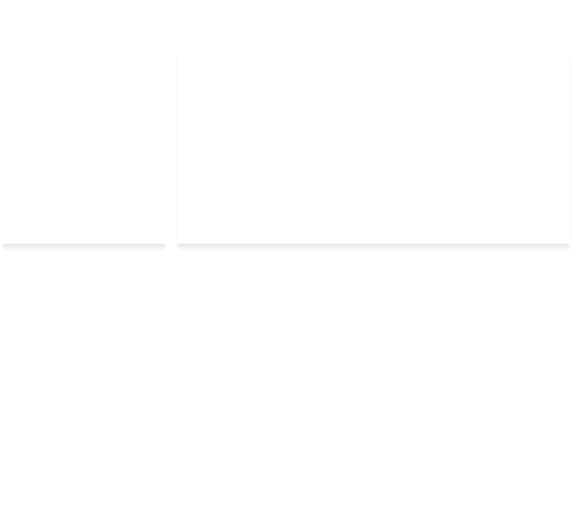
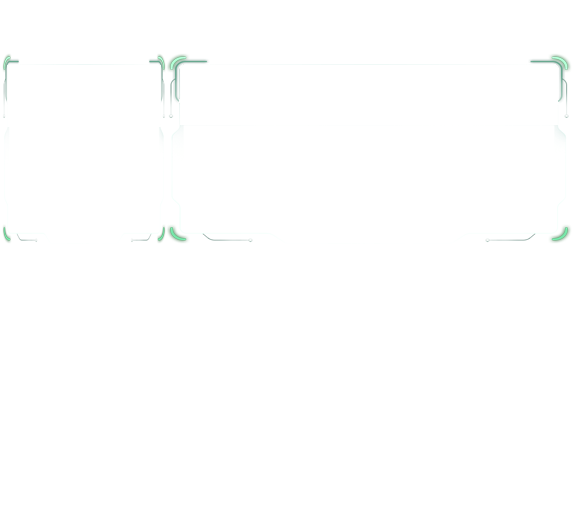
修改界面

diff --git a/src/nbaquery/presentation2/main/MainFrame.java b/src/nbaquery/presentation2/main/MainFrame.java
@@ -35,7 +35,7 @@ public class MainFrame {
 	
 	static CardLocation location = null;
 	
-	static Button button1, button2, button3, button4;
+	static Button button1, button2, button3, button4, button5;
 	static Button exit, mini, show;
 
 
@@ -43,6 +43,7 @@ public class MainFrame {
 	static MouseListener listener2 = null;
 	static MouseListener listener3 = null;
 	static MouseListener listener4 = null;
+	static MouseListener listener5 = null;
 	
 	int xOld,yOld;
 	
@@ -59,7 +60,7 @@ public class MainFrame {
 	
 	public void initialize(){
 		
-		background_img = new ImageIcon("Img2/main_frame_green.png");
+		background_img = new ImageIcon("Img2/main_frame.png");
 		int background_width = background_img.getIconWidth();
 		int background_height = background_img.getIconHeight();
 
@@ -82,14 +83,14 @@ public class MainFrame {
 		background_label.setBounds(0, 0, background_width, background_height); 
 		
 		button_left_panel = new JPanel();
-		button_left_panel.setBounds(0, 0, 104, background_height);
+		button_left_panel.setBounds(0, 0, 115, background_height);
 		button_left_panel.setLayout(null);
 		button_left_panel.setVisible(true);
 		button_left_panel.setOpaque(false);
 		frame.add(button_left_panel);
 
 		button_right_panel = new JPanel();
-		button_right_panel.setBounds(714, 0, 25, background_height);
+		button_right_panel.setBounds(714, 0, 180, 90);
 		button_right_panel.setLayout(null);
 		button_right_panel.setVisible(true);
 		button_right_panel.setOpaque(false);
@@ -123,26 +124,28 @@ public class MainFrame {
 	}
 	
 	private static void initialize_buttons(){
-		button1 = new Button("Img2/blank_big.png", "Img2/button1.png", button_left_panel);
-		button2 = new Button("Img2/blank_big.png", "Img2/button2.png", button_left_panel);
-		button3 = new Button("Img2/blank_big.png", "Img2/button3.png", button_left_panel);
-		button4 = new Button("Img2/blank_big.png", "Img2/button4.png", button_left_panel);
-		button1.setBounds(10, 144, 94, 87);
-		button2.setBounds(10, 231, 94, 87);
-		button3.setBounds(10, 318, 94, 87);
-		button4.setBounds(10, 405, 94, 87);
+		button1 = new Button("Img2/blank_big.png", "Img2/button_chosen.png", button_left_panel);
+		button2 = new Button("Img2/blank_big.png", "Img2/button_chosen.png", button_left_panel);
+		button3 = new Button("Img2/blank_big.png", "Img2/button_chosen.png", button_left_panel);
+		button4 = new Button("Img2/blank_big.png", "Img2/button_chosen.png", button_left_panel);
+		button5 = new Button("Img2/blank_big.png", "Img2/button_chosen.png", button_left_panel);
+		button1.setBounds(35, 105, 82, 82);
+		button2.setBounds(35, 192, 82, 82);
+		button3.setBounds(35, 279, 82, 82);
+		button4.setBounds(35, 366, 82, 82);
+		button5.setBounds(35, 453, 82, 82);
 		
 		exit = new Button("Img2/blank_small.png", "Img2/line.png", button_right_panel);
 		mini = new Button("Img2/blank_small.png", "Img2/line.png", button_right_panel);
 		show = new Button("Img2/blank_small.png", "Img2/line.png", button_right_panel);
-		exit.setBounds(1, 34, 24, 25);
-		mini.setBounds(1, 59, 24, 25);
-		show.setBounds(1, 84, 24, 25);
-		
+		exit.setBounds(120, 34, 24, 25);
+		mini.setBounds(100, 34, 24, 25);
+		show.setBounds(10, 45, 24, 25);
+
 		button1.addMouseListener(new MouseAdapter(){
 			public void mouseClicked(MouseEvent e) {
 				init_button();
-				button1.setIcon(new ImageIcon("Img2/button1.png"));
+				button1.setIcon(new ImageIcon("Img2/button_chosen.png"));
 				
 				if(ConcisePara.type.equals(CardType.PLAYER_FLAT) || (ConcisePara.type.equals(CardType.TEAM_FLAT))){
 					ConcisePara.type = CardType.MATCH_FLAT;
@@ -150,8 +153,8 @@ public class MainFrame {
 				else if(ConcisePara.type.equals(CardType.PLAYER_RECT) || (ConcisePara.type.equals(CardType.TEAM_RECT))){
 					ConcisePara.type = CardType.MATCH_RECT;
 				}
-				ConcisePanelFactory.create_panel(ConcisePara.type, false, false);
 				ConcisePara.view_all = false;
+				ConcisePanelFactory.create_panel(ConcisePara.type, false, false);
 				
 				listener1 = button1.getMouseListeners()[1];
 				button1.removeMouseListener(button1.getMouseListeners()[1]);
@@ -161,7 +164,7 @@ public class MainFrame {
 		button2.addMouseListener(new MouseAdapter(){
 			public void mouseClicked(MouseEvent e) {
 				init_button();
-				button2.setIcon(new ImageIcon("Img2/button2.png"));
+				button2.setIcon(new ImageIcon("Img2/button_chosen.png"));
 				
 				if(ConcisePara.type.equals(CardType.PLAYER_FLAT) || (ConcisePara.type.equals(CardType.MATCH_FLAT))){
 					ConcisePara.type = CardType.TEAM_FLAT;
@@ -169,8 +172,8 @@ public class MainFrame {
 				else if(ConcisePara.type.equals(CardType.PLAYER_RECT) || (ConcisePara.type.equals(CardType.MATCH_FLAT))){
 					ConcisePara.type = CardType.TEAM_RECT;
 				}
-				ConcisePanelFactory.create_panel(ConcisePara.type, false, false);
 				ConcisePara.view_all = false;
+				ConcisePanelFactory.create_panel(ConcisePara.type, false, false);
 				
 				listener2 = button2.getMouseListeners()[1];
 				button2.removeMouseListener(button2.getMouseListeners()[1]);
@@ -180,7 +183,7 @@ public class MainFrame {
 		button3.addMouseListener(new MouseAdapter(){
 			public void mouseClicked(MouseEvent e) {	
 				init_button();
-				button3.setIcon(new ImageIcon("Img2/button3.png"));
+				button3.setIcon(new ImageIcon("Img2/button_chosen.png"));
 				
 				if(ConcisePara.type.equals(CardType.TEAM_FLAT) || (ConcisePara.type.equals(CardType.MATCH_FLAT))){
 					ConcisePara.type = CardType.PLAYER_FLAT;
@@ -188,8 +191,8 @@ public class MainFrame {
 				else if(ConcisePara.type.equals(CardType.TEAM_RECT) || (ConcisePara.type.equals(CardType.MATCH_FLAT))){
 					ConcisePara.type = CardType.PLAYER_RECT;
 				}
-				ConcisePanelFactory.create_panel(ConcisePara.type, false, false);
 				ConcisePara.view_all = false;
+				ConcisePanelFactory.create_panel(ConcisePara.type, false, false);
 				
 				
 				listener3 = button3.getMouseListeners()[1];
@@ -200,7 +203,7 @@ public class MainFrame {
 		button4.addMouseListener(new MouseAdapter(){
 			public void mouseClicked(MouseEvent e) {
 				init_button();
-				button4.setIcon(new ImageIcon("Img2/button4.png"));
+				button4.setIcon(new ImageIcon("Img2/button_chosen.png"));
 				
 				ConcisePara.type = CardType.TEAM_RECT;
 				ConcisePanelFactory.create_panel(ConcisePara.type, true, true);
@@ -210,7 +213,16 @@ public class MainFrame {
 				button4.removeMouseListener(button4.getMouseListeners()[1]);
 			}
 		});
-		
+
+		button5.addMouseListener(new MouseAdapter(){
+			public void mouseClicked(MouseEvent e) {
+				init_button();
+				button5.setIcon(new ImageIcon("Img2/button_chosen.png"));
+
+				listener5 = button5.getMouseListeners()[1];
+				button5.removeMouseListener(button5.getMouseListeners()[1]);
+			}
+		});
 		exit.addMouseListener(new MouseAdapter(){
 			public void mouseClicked(MouseEvent e) {
 				System.exit(0);
@@ -255,6 +267,9 @@ public class MainFrame {
 		if(listener4 != null && (button4.getMouseListeners().length <= 1)){
 			button4.addMouseListener(listener4);
 		}
+		if(listener5 != null && (button5.getMouseListeners().length <= 1)){
+			button5.addMouseListener(listener5);
+		}
 	}
 	
 	private static void init_button(){
@@ -264,6 +279,7 @@ public class MainFrame {
 		button2.setIcon(new ImageIcon("Img2/blank_big.png"));
 		button3.setIcon(new ImageIcon("Img2/blank_big.png"));
 		button4.setIcon(new ImageIcon("Img2/blank_big.png"));
+		button5.setIcon(new ImageIcon("Img2/blank_big.png"));
 	}
 	
 }

diff --git a/src/nbaquery/presentation2/panel/PanelSet.java b/src/nbaquery/presentation2/panel/PanelSet.java
@@ -17,9 +17,6 @@ import nbaquery.presentation2.panel.DetailedPanel;
 import nbaquery.presentation2.panel.PanelSet;
 
 public class PanelSet {	
-	//Confirm that all panels needed have been initialized.
-	//Provide an access to each panel/frame.
-	
 	private static PanelSet instance = null;
 
 	public static PlayerService ps;
@@ -76,7 +73,7 @@ public class PanelSet {
 		JPanel detailed_added_panel = new JPanel();
 		detailed_added_panel.setBackground(new Color(0,0,0,0.0f));
 		detailed_added_panel.setLayout(null);
-		detailed_added_panel.setSize(714, 545);
+		detailed_added_panel.setSize(784, 545);
 		detailed_added_panel.setLocation(0, 0);
 
 		DetailedPanel detailed_panel = new DetailedPanel(player);
@@ -89,7 +86,7 @@ public class PanelSet {
 		JPanel detailed_added_panel = new JPanel();
 		detailed_added_panel.setBackground(new Color(0,0,0,0.0f));
 		detailed_added_panel.setLayout(null);
-		detailed_added_panel.setSize(714, 545);
+		detailed_added_panel.setSize(784, 545);
 		detailed_added_panel.setLocation(0, 0);
 
 		DetailedPanel detailed_panel = new DetailedPanel(team);
@@ -102,7 +99,7 @@ public class PanelSet {
 		JPanel detailed_added_panel = new JPanel();
 		detailed_added_panel.setBackground(new Color(0,0,0,0.0f));
 		detailed_added_panel.setLayout(null);
-		detailed_added_panel.setSize(714, 545);
+		detailed_added_panel.setSize(784, 545);
 		detailed_added_panel.setLocation(0, 0);
 
 		DetailedPanel detailed_panel = new DetailedPanel(match);

diff --git a/src/nbaquery/presentation2/panel/MatchPanel.java b/src/nbaquery/presentation2/panel/MatchPanel.java
@@ -34,8 +34,8 @@ public class MatchPanel extends ConcisePanel {
 	    super.set_scr();
 	    
 		search_panel.setLayout(null);
-		search_panel.setBackground(new Color(245, 245, 245));
-		search_panel.setBounds(130, 20, 570, 60);
+		search_panel.setBackground(new Color(0, 0, 0, 0));
+		search_panel.setBounds(190, 75, 570, 60);
 		
 		valueBox = ComboBoxFactory.getInstance().createComboBox(20, 15, 100, 24, 
 				new String[]{
@@ -125,8 +125,8 @@ public class MatchPanel extends ConcisePanel {
 	
 	private void add_cards(){
 		MatchService ms = PanelSet.ms;
-		String[][] str = ms.searchForMatchs(0, true);
-	//	String[][] str = ms.searchForMatchs(ConcisePara.match_index, ConcisePara.match_isUp);
+	//	String[][] str = ms.searchForMatchs(0, true);
+		String[][] str = ms.searchForMatchs(ConcisePara.match_index, ConcisePara.match_isUp);
 		CardCreator creator = new CardCreator();
 		ArrayList<Card> card_list = creator.create_needed_cards(ConcisePara.type, str, ConcisePara.view_all);
 		CardLocation location = new CardLocation(ConcisePara.type);

diff --git a/src/nbaquery/presentation/combobox/MyBasicComboBoxUI.java b/src/nbaquery/presentation/combobox/MyBasicComboBoxUI.java
@@ -17,8 +17,22 @@ public class MyBasicComboBoxUI extends BasicComboBoxUI
 	
     public void installUI(JComponent comboBox) {
         super.installUI(box);
+        /*
            listBox.setForeground(new Color(1,1,1,0.8f));
            listBox.setBackground(new Color(0,0,0,0.3f));
+           */
+        listBox.setForeground(new Color(1, 1, 1));
+        listBox.setBackground(new Color(31, 109, 97));
+        
+        box.setOpaque(true);
+        
+       // this.comboBox.setForeground(new Color(1, 1, 0));
+       // this.comboBox.setBackground(new Color(0, 0, 0, 0));
+        
+       // this.box.setBackground(new Color(0, 0, 0, 0));
+        
+       // this.currentValuePane.setBackground(new Color(0, 0, 0, 0));
+       // comboBox.getParent().setBackground(new Color(0, 0, 0, 0));
          }
        
          /**

diff --git a/src/nbaquery/presentation2/panel/ConcisePanel.java b/src/nbaquery/presentation2/panel/ConcisePanel.java
@@ -44,15 +44,14 @@ public class ConcisePanel {
 		PanelSet.set_concise(this);
 
 		concise_panel.setLayout(null);
-		concise_panel.setBackground(new Color(245, 245, 245));
-		concise_panel.setBounds(0, 60, 600, 481);
+		concise_panel.setBackground(new Color(9, 27, 25));
 	}
 	
 	protected void run(){
 	    scr = new JScrollPane(concise_panel, 
 	    		ScrollPaneConstants.VERTICAL_SCROLLBAR_AS_NEEDED, 
 	    		ScrollPaneConstants.HORIZONTAL_SCROLLBAR_AS_NEEDED);
-	    scr.setBounds(110, 60, 600, 482);
+	    scr.setBounds(180, 125, 610, 400);//+70, +65
 	    scr.setBorder(null);
 	    
 	    frame.add(scr);

diff --git a/src/nbaquery/presentation2/info/Match.java b/src/nbaquery/presentation2/info/Match.java
@@ -7,10 +7,10 @@ public class Match {
 	
 	public Match(String[] string_info){
 		//TODO
-		for(int i=0; i<string_info.length; i++){
+	/*	for(int i=0; i<string_info.length; i++){
 			System.out.print(string_info[i] + "  ");
 		}
-		System.out.println(" ");
+		System.out.println(" ");*/
 		match_info = string_info;
 	}
 	public String get_id(){
